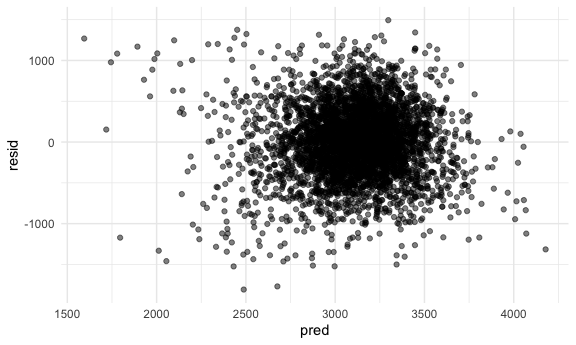
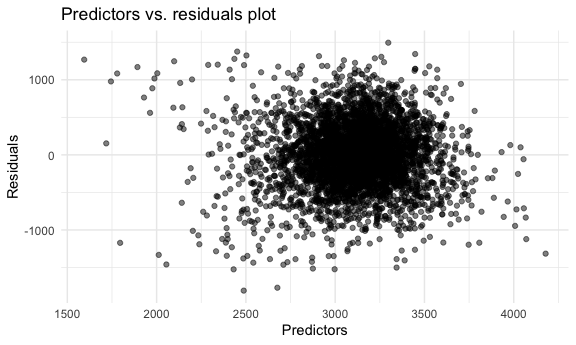
finish prob 2

diff --git a/p8105_hw6_jz3297.md b/p8105_hw6_jz3297.md
@@ -280,12 +280,17 @@ fit_df
     ## 10  3459   169    40.7       12      64     19  24.9   145      4  185.   3274.
     ## # … with 4,332 more rows
 
-Make residual plots
+### Look at residuals
 
 ``` r
 fit_df %>% 
   ggplot(aes(x = pred, y = resid)) +
-  geom_point(alpha = 0.5)
+  geom_point(alpha = 0.5) +
+  labs(
+    title = "Predictors vs. residuals plot",
+    x = "Predictors",
+    y = "Residuals"
+  )
 ```
 
 <img src="p8105_hw6_jz3297_files/figure-gfm/unnamed-chunk-8-1.png" width="90%" />
@@ -293,10 +298,19 @@ fit_df %>%
 ``` r
 fit_df %>% 
   ggplot(aes(x = resid)) +
-  geom_density()
+  geom_density() +
+  labs(
+    title = "Residuals plot",
+    x = "Residuals",
+    y = "Density"
+  )
 ```
 
 <img src="p8105_hw6_jz3297_files/figure-gfm/unnamed-chunk-9-1.png" width="90%" />
+
+  - The density plot of residuals is relatively symmetric with a slight
+    skewness to the right. In general, residuals seem to be centered
+    around zero.
 
 <br />
 
@@ -341,6 +355,58 @@ model_3 %>%
 | bhead:babysexmale         |    198.393181 | 0.0001047 |
 | blength:babysexmale       |    123.772887 | 0.0004288 |
 | bhead:blength:babysexmale |    \-3.878053 | 0.0002453 |
+
+<br />
+
+### Cross validation for three models
+
+``` r
+cv_df =
+  crossv_mc(birth_weight_df, 100) %>% 
+  mutate(
+    train = map(train, as_tibble),
+    test = map(test, as_tibble)
+  )
+
+cv_birth_weight =
+  cv_df %>% 
+    mutate(
+        model_1 = map(train, ~lm(bwt ~ delwt + gaweeks + menarche + mheight + momage + ppbmi + ppwt + smoken, data = .x)),
+        model_2 = map(train, ~lm(bwt ~ blength + gaweeks, data = .x)),
+        model_3 = map(train, ~lm(bwt ~ bhead * blength * babysex, data = .x))
+    ) %>% 
+    mutate(
+        rmse_model_1 = map2_dbl(model_1, test, ~rmse(model = .x, data = .y)),
+        rmse_model_2 = map2_dbl(model_2, test, ~rmse(model = .x, data = .y)),
+        rmse_model_3 = map2_dbl(model_3, test, ~rmse(model = .x, data = .y))
+    )
+```
+
+### Compare the models
+
+``` r
+cv_birth_weight %>% 
+  select(starts_with("rmse")) %>% 
+  pivot_longer(
+    everything(),
+    names_to = "model",
+    values_to = "rmse",
+    names_prefix = "rmse_"
+  ) %>% 
+  ggplot(aes(x = model, y = rmse)) +
+  geom_violin() +
+  labs(
+    title = "Compare Three Models",
+    x = "Model",
+    y = "rmse"
+  )
+```
+
+<img src="p8105_hw6_jz3297_files/figure-gfm/unnamed-chunk-13-1.png" width="90%" />
+
+According to the graph, model 3 has the lowest rmse indicates it is the
+best one out of three models. The model I created has the highest rmse
+indicates it is the worst one out of three models.
 
 <br />
 
